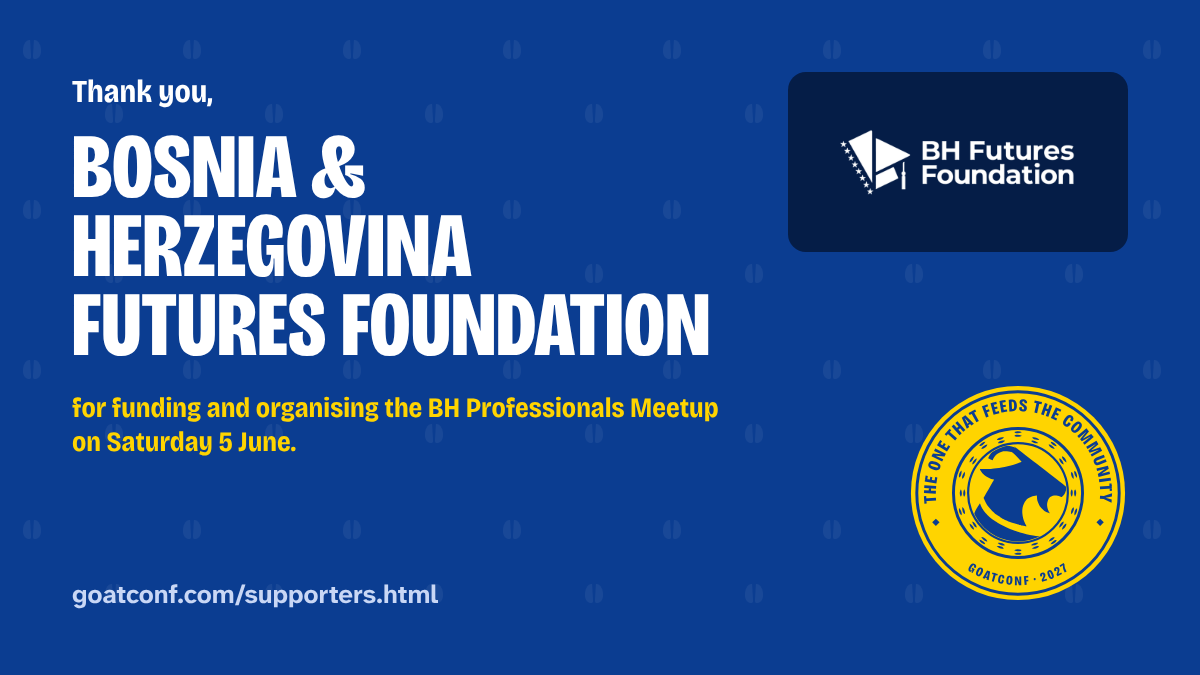
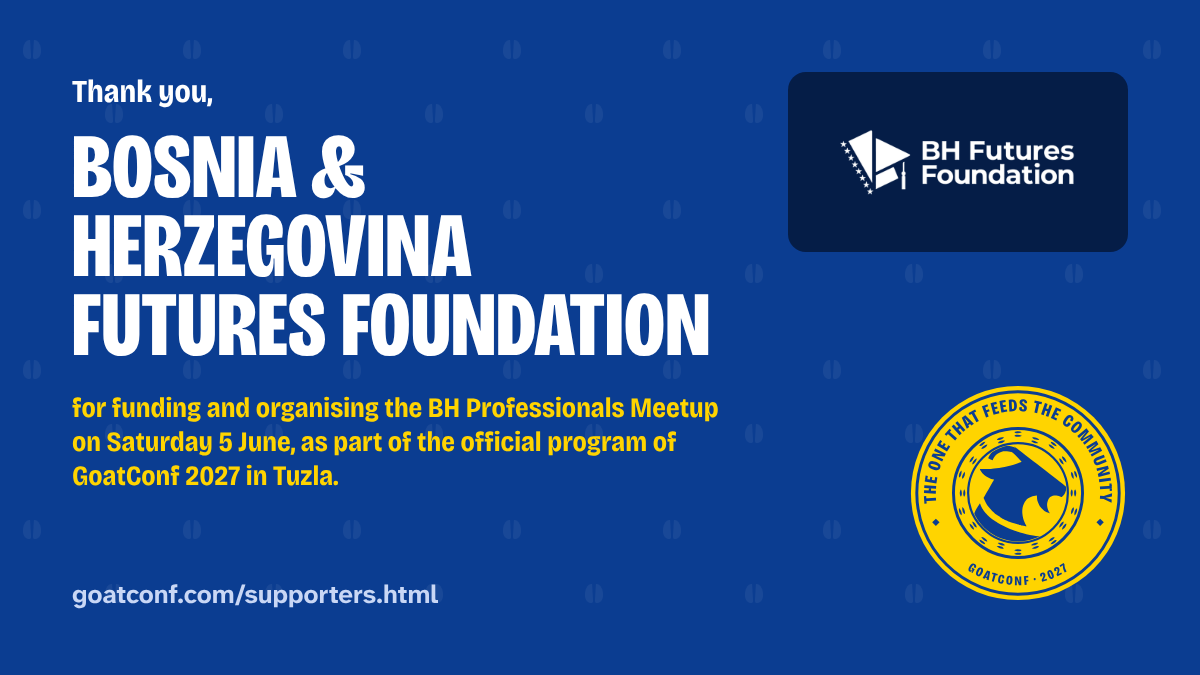
site: BH Futures Foundation's thank-you card names the official program
On the organiser's word, the foundation's thank-you card ends "for
funding and organising the BH Professionals Meetup on Saturday 5 June,
as part of the official program of GoatConf 2027 in Tuzla." A
supporter record takes an optional `thanks` line, the card's last line
as written; only the card shows it, so the supporters page and the
home page keep the shorter line. The supporters README documents it.

Source: files/sources/conversations/2026-10-18--org--bhff-card-official-program.md

Changed region(s): [[0.0617, 0.6222, 0.555, 0.7156]]

diff --git a/files/tools/shareables.py b/files/tools/shareables.py
@@ -140,9 +140,12 @@ def speaker_card(slug: str, meta, talks: list[str], square: bool, height: int = 
 
 
 def thanks(meta) -> str:
-    """The card's last line. A funds line that starts with what the supporter
-    does ("Funding and organising ...") is used as it stands; any other line
+    """The card's last line: the record's own `thanks` line if it has one.
+    Otherwise a funds line that starts with what the supporter does
+    ("Funding and organising ...") is used as it stands; any other line
     names what they fund."""
+    if meta.get("thanks"):
+        return esc(str(meta["thanks"]))
     if meta.get("host") is True:
         return "for hosting GoatConf 2027."
     funds = str(meta["funds"])

diff --git a/files/sources/conversations/2026-10-18--org--bhff-card-official-program.md b/files/sources/conversations/2026-10-18--org--bhff-card-official-program.md
@@ -1,0 +1,27 @@
+---
+title: "BH Futures Foundation's thank-you card names the official program"
+date: 2026-10-18
+kind: conversation
+---
+
+The organiser asked, verbatim:
+
+> For the BHFF part, should we also explicitly say "as part of the official program of GoatConf 2027 in Tuzla"
+
+The agent recommended keeping it off the foundation's supporter line,
+which shows on GoatConf's own supporters page, home page chip and
+thank-you card, and suggested the foundation use it in its own
+announcements; it noted that the site says "part of GoatConf 2027" and
+"on the program", never "official", while the accepted-events amendment
+of 2026-10-12 calls accepted events "official GoatConf events"
+(`sources/conversations/2026-10-12--org--accepted-events-and-hackathons.md`).
+It asked where, if anywhere, the organiser wanted it. The organiser
+answered, verbatim:
+
+> Thank you card
+
+The foundation's thank-you card now ends "for funding and organising
+the BH Professionals Meetup on Saturday 5 June, as part of the official
+program of GoatConf 2027 in Tuzla." A supporter record takes an optional
+`thanks` line, the card's last line as written; only the card shows it.
+The supporters page and the home page keep the shorter line.

diff --git a/files/supporters/README.md b/files/supporters/README.md
@@ -19,6 +19,10 @@ one.
   "thank you" card reads "for funding" and this line; a line that starts
   with what they do, such as "Funding and organising the meetup", is used
   as it stands ("for funding and organising the meetup").
+- `thanks`: optional, the last line of their "thank you" card exactly as
+  written, in place of the one made from `funds`, for example "for
+  funding and organising the meetup, as part of the official program of
+  GoatConf 2027 in Tuzla." Only the card shows it.
 - `host: yes`: optional, for the host and partner, IPI Academy. It is listed
   first, before every other supporter, and its "thank you" card thanks it for
   hosting.

diff --git a/files/supporters/bh-futures-foundation.md b/files/supporters/bh-futures-foundation.md
@@ -4,4 +4,5 @@ logo: img/supporters/bh-futures-foundation.png
 logo_on: dark
 url: https://www.bhfuturesfoundation.org
 funds: Funding and organising the BH Professionals Meetup on Saturday 5 June
+thanks: for funding and organising the BH Professionals Meetup on Saturday 5 June, as part of the official program of GoatConf 2027 in Tuzla.
 ---
